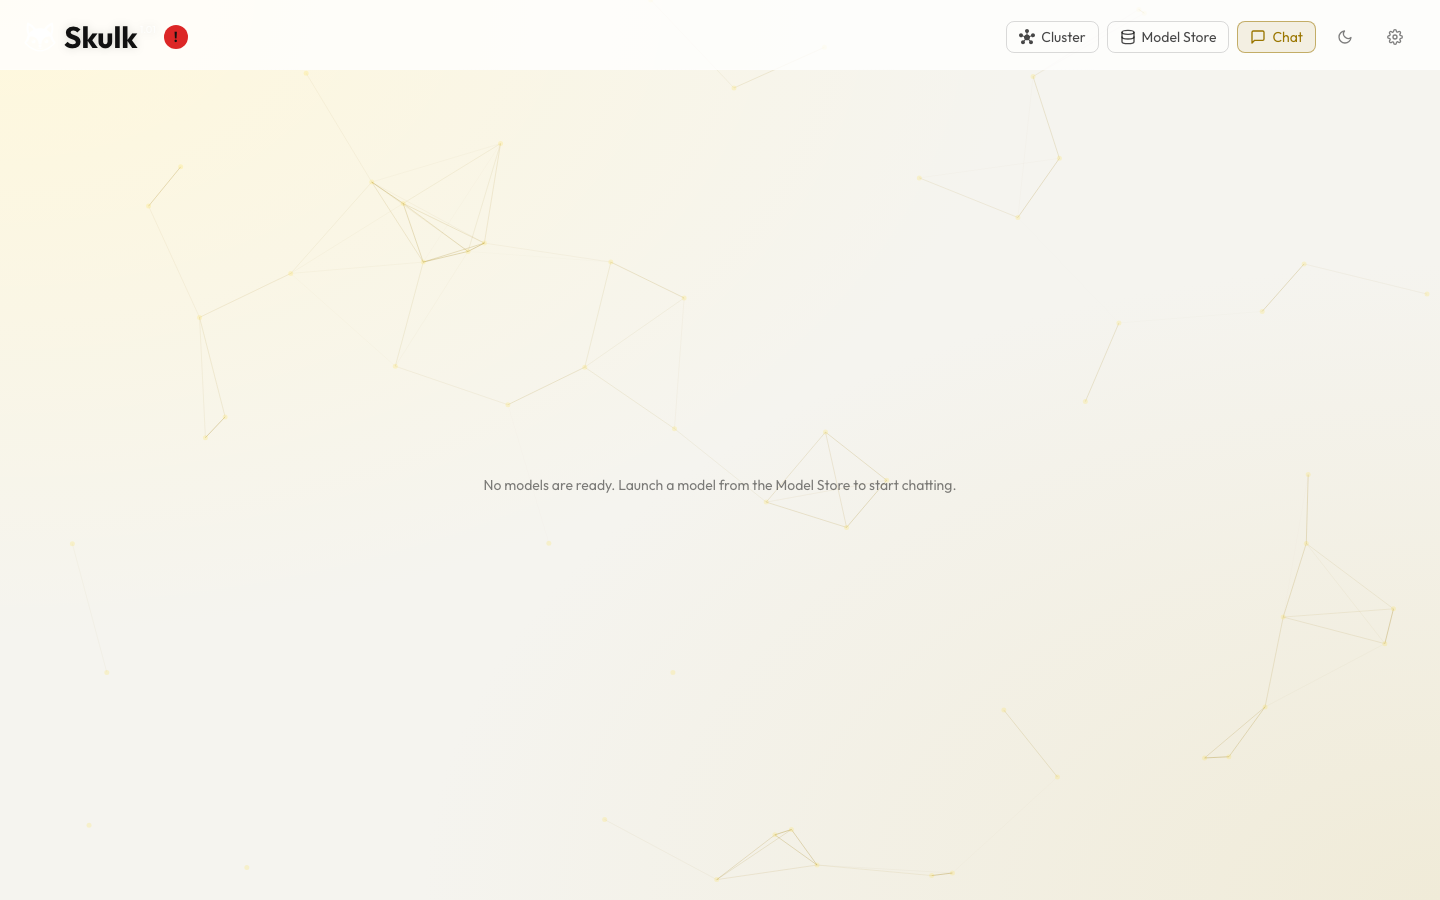
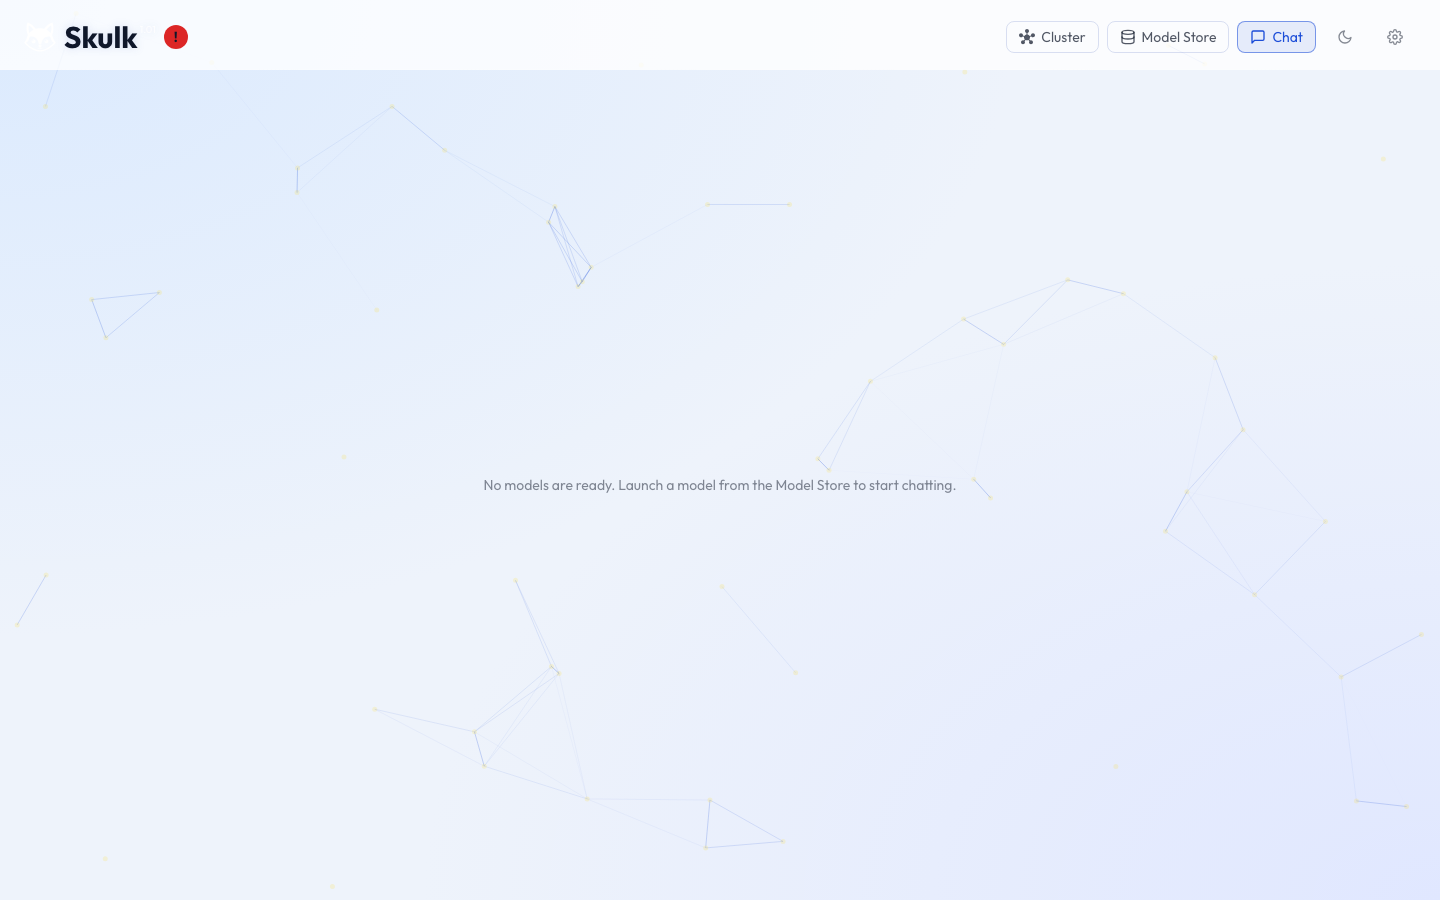
Switch light palette from cream/amber to blues

diff --git a/dashboard-react/src/theme/theme.ts b/dashboard-react/src/theme/theme.ts
@@ -168,63 +168,66 @@ const darkColors: ColorTokens = {
 };
 
 const lightColors: ColorTokens = {
-  bg: '#f5f4ef',
+  bg: '#eef3fb',
   bgGradient: `
-    radial-gradient(ellipse at 0% 0%, #fff8dc 0%, transparent 50%),
-    radial-gradient(ellipse at 100% 100%, #f0ebd8 0%, transparent 50%),
-    #f5f4ef
+    radial-gradient(ellipse at 0% 0%, #dbeafe 0%, transparent 50%),
+    radial-gradient(ellipse at 100% 100%, #e0e7ff 0%, transparent 50%),
+    #eef3fb
   `,
   surface: '#ffffff',
-  surfaceHover: '#f0efe9',
+  surfaceHover: '#e6edf8',
   surfaceElevated: 'rgba(255, 255, 255, 0.96)',
-  surfaceSunken: 'rgba(0, 0, 0, 0.04)',
+  surfaceSunken: 'rgba(15, 23, 42, 0.04)',
   header: 'rgba(255, 255, 255, 0.78)',
-  headerBorder: 'linear-gradient(to right, rgba(0, 0, 0, 0.16), rgba(0, 0, 0, 0.03))',
-  overlay: 'rgba(20, 20, 20, 0.4)',
-  shadow: 'rgba(0, 0, 0, 0.10)',
-  shadowStrong: 'rgba(0, 0, 0, 0.18)',
+  headerBorder: 'linear-gradient(to right, rgba(30, 64, 175, 0.18), rgba(30, 64, 175, 0.03))',
+  overlay: 'rgba(15, 23, 42, 0.42)',
+  shadow: 'rgba(15, 23, 42, 0.10)',
+  shadowStrong: 'rgba(15, 23, 42, 0.18)',
 
-  border: 'rgba(0, 0, 0, 0.14)',
-  borderLight: 'rgba(0, 0, 0, 0.08)',
-  borderStrong: 'rgba(0, 0, 0, 0.28)',
+  border: 'rgba(30, 64, 175, 0.16)',
+  borderLight: 'rgba(30, 64, 175, 0.10)',
+  borderStrong: 'rgba(30, 64, 175, 0.32)',
 
-  text: '#111111',
-  textSecondary: 'rgba(0, 0, 0, 0.72)',
-  textMuted: 'rgba(0, 0, 0, 0.5)',
+  text: '#0f172a',
+  textSecondary: 'rgba(15, 23, 42, 0.72)',
+  textMuted: 'rgba(15, 23, 42, 0.5)',
   textOnAccent: '#ffffff',
 
-  gold: '#9a7600',
-  goldDim: 'rgba(154, 118, 0, 0.55)',
-  goldBg: 'rgba(154, 118, 0, 0.10)',
-  goldStrong: '#7a5c00',
+  // The dark palette uses gold as the brand accent. Light mode reuses the same
+  // token names but maps them to a dominant blue so the rest of the codebase
+  // doesn't need to know which palette is active.
+  gold: '#1d4ed8',
+  goldDim: 'rgba(29, 78, 216, 0.55)',
+  goldBg: 'rgba(29, 78, 216, 0.10)',
+  goldStrong: '#1e3a8a',
 
-  accent: '#16a34a',
-  accentHover: '#15803d',
-  accentBg: 'rgba(22, 163, 74, 0.12)',
+  accent: '#0ea5e9',
+  accentHover: '#0284c7',
+  accentBg: 'rgba(14, 165, 233, 0.12)',
   error: '#dc2626',
   errorBg: 'rgba(220, 38, 38, 0.10)',
   errorText: '#991b1b',
-  warning: '#d97706',
-  warningBg: 'rgba(217, 119, 6, 0.12)',
-  warningText: '#92400e',
-  info: '#2563eb',
-  infoBg: 'rgba(37, 99, 235, 0.10)',
+  warning: '#b45309',
+  warningBg: 'rgba(180, 83, 9, 0.12)',
+  warningText: '#78350f',
+  info: '#1d4ed8',
+  infoBg: 'rgba(29, 78, 216, 0.10)',
 
-  chatBubbleUser: 'rgba(154, 118, 0, 0.10)',
+  chatBubbleUser: 'rgba(29, 78, 216, 0.10)',
   chatBubbleAssistant: '#ffffff',
-  chatBubbleBorder: 'rgba(0, 0, 0, 0.12)',
-  chatCodeBg: 'rgba(0, 0, 0, 0.06)',
+  chatBubbleBorder: 'rgba(30, 64, 175, 0.16)',
+  chatCodeBg: 'rgba(15, 23, 42, 0.06)',
 
-  heatmapLow: '#bfdbfe',
-  heatmapMid: '#f59e0b',
-  heatmapHigh: '#dc2626',
+  heatmapLow: '#dbeafe',
+  heatmapMid: '#3b82f6',
+  heatmapHigh: '#1e3a8a',
 
-  deviceIconStroke: '#111111',
-  deviceIconFill: 'rgba(0, 0, 0, 0.06)',
-  meshLine: 'rgba(154, 118, 0, 0.35)',
-  meshNode: 'rgba(154, 118, 0, 0.6)',
+  deviceIconStroke: '#1e3a8a',
+  deviceIconFill: 'rgba(29, 78, 216, 0.08)',
+  meshLine: 'rgba(29, 78, 216, 0.30)',
+  meshNode: 'rgba(29, 78, 216, 0.55)',
 
-  healthy: '#16a34a',
+  healthy: '#0ea5e9',
   unhealthy: '#dc2626',
 };
 
